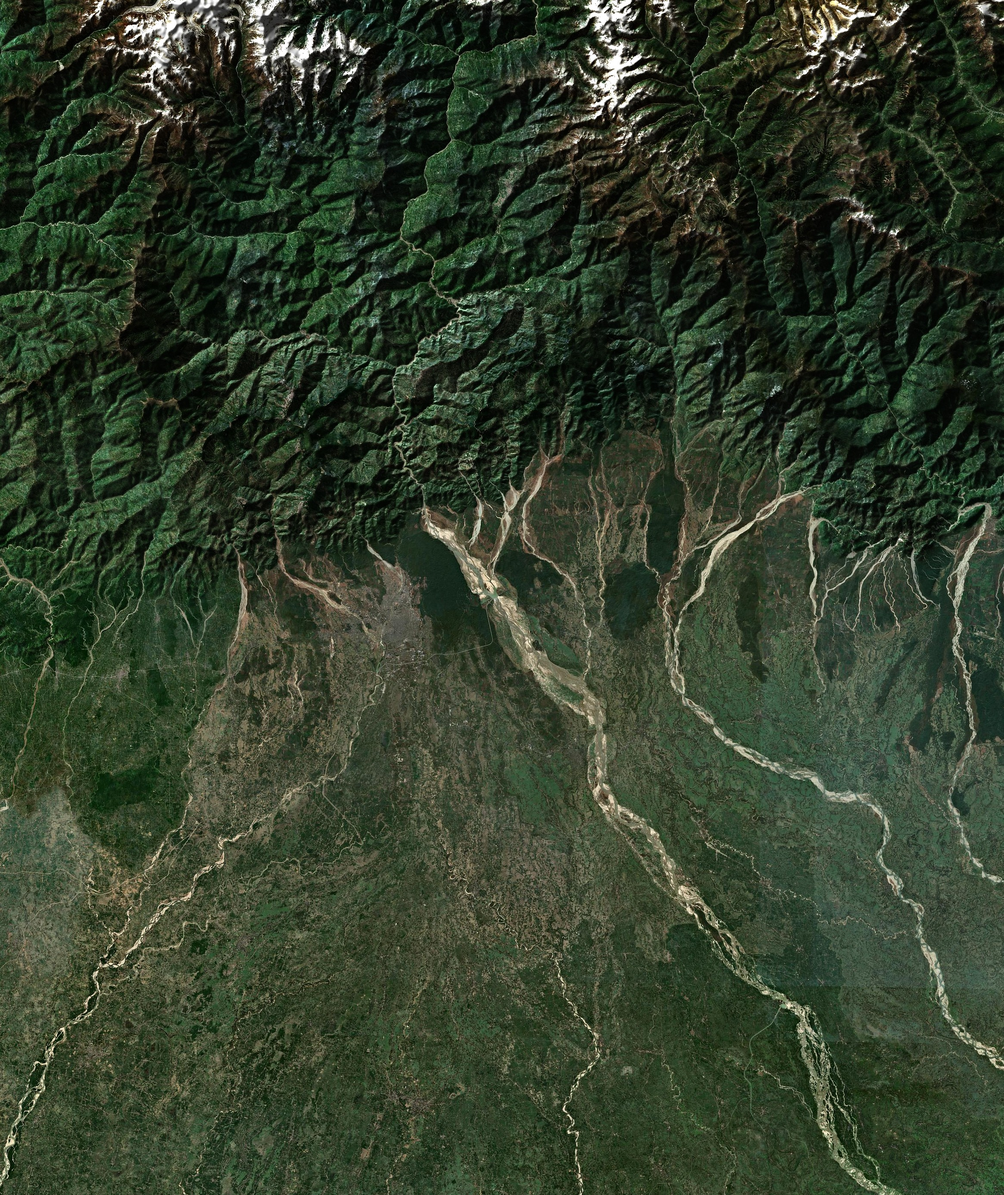
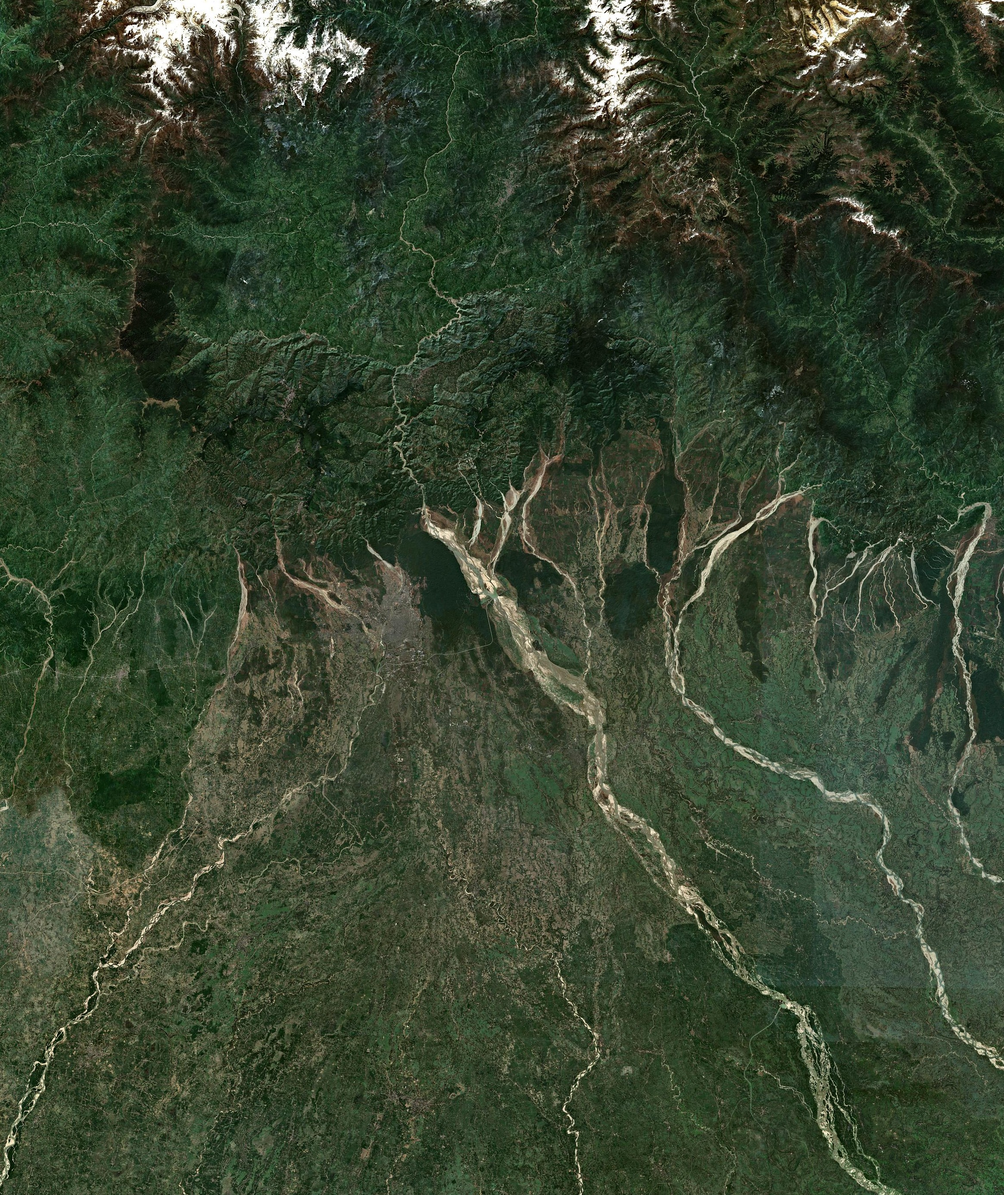
Siliguri: re-edit in the Judwa Desh style (flat map, Twins grade and shapes, boxed labels, no chicken), 2K 60 fps composition
Claude-Session: https://claude.ai/code/session_01DMZ7CFPTajKZajZsT4vn8D

Changed region(s): [[0.0, 0.0, 1.0, 0.4962]]

diff --git a/src/siliguri/Plane.tsx b/src/siliguri/Plane.tsx
@@ -3,10 +3,10 @@ import { clamp01, easeIn, easeOut, inOut, lerp, linear, ramp, window4 } from './
 import { C, Cam, DURATION_S, GEO, P, merc, project } from './cam';
 import { NUM } from './fonts';
 
-/** Country colours, saturated the way the reference paints them (India blue, China red, Bangladesh green …). */
+/** Region colours: the Judwa Desh palette (bold, flat, one warm and one cool next to each other). */
 export const COL = {
-  india: '#2F6BFF', ne: '#2EE07A', corridor: '#E443FF', nepal: '#FF9F1C', bangladesh: '#1FBF5B', bhutan: '#B9C23A',
-  china: '#FF3344', chumbi: '#FF2D3A', myanmar: '#A45BFF', mizoram: '#31D7FF', andaman: '#FFD84A',
+  india: '#4F8BFF', ne: '#3EE6A0', corridor: '#FF5468', nepal: '#FFC93C', bangladesh: '#3DDC4A', bhutan: '#B67CFF',
+  china: '#FF3B30', chumbi: '#FF3B30', myanmar: '#B67CFF', mizoram: '#38E1FF', andaman: '#FFC93C',
   gold: '#FFD84A', red: '#FF3B30', white: '#FFF6E6', teal: '#2EC4B6', river: '#38D6FF', road: '#FFB347', rail: '#7CC4FF', oil: '#FF5E7E',
 };
 const ll = (lon: number, lat: number) => merc(lon, lat);
@@ -41,19 +41,8 @@ export const regionsAt = (t: number): Region[] => {
   ];
 };
 
-/** How far the map leans back (degrees): the camera tilts while regions stand up as slabs, eased over a window. */
-export const TILT_MAX = 22;
-export const tiltAt = (t: number) => {
-  let sum = 0, n = 0;
-  for (let k = -6; k <= 6; k++) {
-    const regs = regionsAt(t + k * 0.06);
-    const wgt = 7 - Math.abs(k);
-    sum += wgt * Math.max(0, ...regs.map((r) => r.a));
-    n += wgt;
-  }
-  const v = sum / n;
-  return 8 + (TILT_MAX - 8) * v * v * (3 - 2 * v);
-};
+/** The Judwa Desh style is a flat, top-down map: no tilt. */
+export const tiltAt = (_t: number) => 0;
 
 // ---- lines (Mercator): the narrowest gap, the lifelines, routes
 export const NECK_A = ll(88.1466, 26.6612), NECK_B = ll(88.3528, 26.5787); // Nepal ↔ Bangladesh, 22.5 km (Natural Earth)
@@ -127,15 +116,19 @@ const Measure: React.FC<{ c: Cam; a: P; b: P; t: number; t0: number; t1: number;
   );
 };
 
-/** A big italic name laid flat on the map, so it leans back with the camera (the reference's 3D labels). */
-const MapName: React.FC<{ c: Cam; at: P; t: number; t0: number; t1: number; text: string; size?: number; rot?: number; color?: string }> = ({ c, at, t, t0, t1, text, size = 96, rot = -8, color = '#fff' }) => {
+/** A country name as a boxed label on the map (white border, a colour chip), the Judwa Desh way. */
+const MapName: React.FC<{ c: Cam; at: P; t: number; t0: number; t1: number; text: string; size?: number; rot?: number; color?: string }> = ({ c, at, t, t0, t1, text, size = 96, color = '#fff' }) => {
   const a = window4(t, t0, t0 + 0.12, t1 - 0.25, t1);
   if (a <= 0) return null;
   const [x, y] = project(c, at[0], at[1]);
-  const s = lerp(1.4, 1, ramp(t, t0, t0 + 0.35, easeOut));
+  const s = clamp01(lerp(0.3, 1, ramp(t, t0, t0 + 0.25, easeOut))) * (1 + 0.06 * Math.sin(Math.min(1, (t - t0) / 0.35) * Math.PI));
+  const fs = Math.max(34, Math.min(64, size * 0.5));
   return (
-    <div style={{ position: 'absolute', left: x, top: y, transform: `translate(-50%,-50%) rotate(${rot}deg) scale(${s}) skewX(-8deg)`, opacity: a, whiteSpace: 'nowrap',
-      fontFamily: NUM, fontSize: size, letterSpacing: 4, color, textShadow: '0 8px 0 rgba(0,0,0,0.35), 0 14px 30px rgba(0,0,0,0.7)', WebkitTextStroke: '3px rgba(0,0,0,0.35)' }}>{text}</div>
+    <div style={{ position: 'absolute', left: x, top: y, transform: `translate(-50%,-50%) scale(${s})`, opacity: a, whiteSpace: 'nowrap', background: 'rgba(8,16,26,0.72)', color: '#fff',
+      padding: '8px 22px 2px 18px', borderRadius: 10, border: '4px solid #fff', fontFamily: NUM, fontSize: fs, letterSpacing: 1.5, lineHeight: 1.15,
+      boxShadow: '0 8px 22px rgba(0,0,0,0.55)', display: 'flex', alignItems: 'center', gap: 12 }}>
+      <span style={{ width: fs * 0.42, height: fs * 0.42, borderRadius: 5, background: color === '#fff' ? '#FFD84A' : color, display: 'inline-block', marginTop: -5 }} />{text}
+    </div>
   );
 };
 
@@ -200,20 +193,20 @@ export const PlaneLayer: React.FC<{ t: number; c: Cam; between?: React.ReactNode
         <Route c={c} pts={ROUTES.oil} t={t} t0={C.tel9 - 0.2} t1={C.to10 - 0.2} dur={2.0} color={COL.oil} width={10} />
       </svg>
       {/* names on the map */}
-      <MapName c={c} at={ll(80.5, 22.5)} t={t} t0={0.2} t1={C.n22 + 0.2} text="INDIA" size={150} rot={-6} />
-      <MapName c={c} at={ll(88.25, 26.62)} t={t} t0={C.siliguri2} t1={C.northeast2 - 0.1} text="SILIGURI CORRIDOR" size={78} rot={-38} />
-      <MapName c={c} at={ll(93.6, 26.4)} t={t} t0={C.northeast2 + 0.2} t1={C.sadak3 - 0.1} text="NORTHEAST" size={110} rot={-8} />
-      <MapName c={c} at={ll(86.0, 27.8)} t={t} t0={C.nepal4} t1={C.isiliye5 + 0.4} text="NEPAL" size={120} rot={-14} />
-      <MapName c={c} at={ll(89.6, 24.6)} t={t} t0={C.bangla4} t1={C.isiliye5 + 0.4} text="BANGLADESH" size={110} rot={-10} />
-      <MapName c={c} at={ll(90.4, 27.5)} t={t} t0={C.bhutan4} t1={C.isiliye5 + 0.4} text="BHUTAN" size={100} rot={-10} />
-      <MapName c={c} at={ll(89.6, 29.4)} t={t} t0={C.china4} t1={C.isiliye5 + 0.4} text="CHINA" size={140} rot={-6} />
-      <MapName c={c} at={ll(88.95, 27.62)} t={t} t0={C.chumbi4} t1={C.isiliye5 + 0.4} text="CHUMBI VALLEY" size={46} rot={-40} color="#FFD3D6" />
-      <MapName c={c} at={ll(90.0, 21.0)} t={t} t0={C.y2018 - 0.2} t1={C.par6} text="BAY OF BENGAL" size={64} rot={-6} color="#BFE6FF" />
-      <MapName c={c} at={ll(96.0, 21.2)} t={t} t0={C.myanmar8} t1={C.aur9} text="MYANMAR" size={110} rot={-8} />
-      <MapName c={c} at={ll(105.0, 33.0)} t={t} t0={C.china9} t1={C.malacca9 + 0.3} text="CHINA" size={170} rot={-6} />
-      <MapName c={c} at={ll(99.6, 4.0)} t={t} t0={C.malacca9} t1={C.darwaze9 + 0.3} text="MALACCA STRAIT" size={70} rot={-38} color="#BFE6FF" />
-      <MapName c={c} at={ll(91.6, 10.5)} t={t} t0={C.andaman9} t1={C.to10} text="ANDAMAN & NICOBAR" size={58} rot={-76} color={COL.gold} />
-      <MapName c={c} at={ll(80.5, 22.5)} t={t} t0={C.to10 + 0.3} t1={DURATION_S + 1} text="INDIA" size={150} rot={-6} />
+      <MapName c={c} at={ll(80.5, 22.5)} t={t} t0={0.2} t1={C.n22 + 0.2} text="INDIA" size={150} color={COL.india} />
+      <MapName c={c} at={ll(88.25, 26.62)} t={t} t0={C.siliguri2} t1={C.northeast2 - 0.1} text="SILIGURI CORRIDOR" size={78} color={COL.corridor} />
+      <MapName c={c} at={ll(93.6, 26.4)} t={t} t0={C.northeast2 + 0.2} t1={C.sadak3 - 0.1} text="NORTHEAST" size={110} color={COL.ne} />
+      <MapName c={c} at={ll(86.0, 27.8)} t={t} t0={C.nepal4} t1={C.isiliye5 + 0.4} text="NEPAL" size={120} color={COL.nepal} />
+      <MapName c={c} at={ll(89.6, 24.6)} t={t} t0={C.bangla4} t1={C.isiliye5 + 0.4} text="BANGLADESH" size={110} color={COL.bangladesh} />
+      <MapName c={c} at={ll(90.4, 27.5)} t={t} t0={C.bhutan4} t1={C.isiliye5 + 0.4} text="BHUTAN" size={100} color={COL.bhutan} />
+      <MapName c={c} at={ll(89.6, 29.4)} t={t} t0={C.china4} t1={C.isiliye5 + 0.4} text="CHINA" size={140} color={COL.china} />
+      <MapName c={c} at={ll(88.95, 27.62)} t={t} t0={C.chumbi4} t1={C.isiliye5 + 0.4} text="CHUMBI VALLEY" size={80} color={COL.chumbi} />
+      <MapName c={c} at={ll(90.0, 21.0)} t={t} t0={C.y2018 - 0.2} t1={C.par6} text="BAY OF BENGAL" size={80} color={COL.river} />
+      <MapName c={c} at={ll(96.0, 21.2)} t={t} t0={C.myanmar8} t1={C.aur9} text="MYANMAR" size={110} color={COL.myanmar} />
+      <MapName c={c} at={ll(105.0, 33.0)} t={t} t0={C.china9} t1={C.malacca9 + 0.3} text="CHINA" size={170} color={COL.china} />
+      <MapName c={c} at={ll(99.6, 4.0)} t={t} t0={C.malacca9} t1={C.darwaze9 + 0.3} text="MALACCA STRAIT" size={90} color={COL.river} />
+      <MapName c={c} at={ll(91.6, 10.5)} t={t} t0={C.andaman9} t1={C.to10} text="ANDAMAN & NICOBAR" size={80} color={COL.andaman} />
+      <MapName c={c} at={ll(80.5, 22.5)} t={t} t0={C.to10 + 0.3} t1={DURATION_S + 1} text="INDIA" size={150} color={COL.india} />
     </>
   );
 };

diff --git a/src/siliguri/Screen.tsx b/src/siliguri/Screen.tsx
@@ -128,9 +128,6 @@ const Props: React.FC<{ t: number; c: Cam }> = ({ t, c }) => {
   const dish = Math.cos(t * 2.4);
   return (
     <>
-      {/* the chicken's neck */}
-      <Rig set="s1" parts={[{ name: 'chicken', box: [0, 0, 1], rot: Math.sin(t * 7) * 3 * window4(t, C.chicken2, C.chicken2 + 0.2, C.chicken2 + 1, C.chicken2 + 1.4) }]}
-        x={ux + 250} y={uy - 120} h={300} t={t} t0={C.chicken2 - 0.05} t1={C.northeast2 - 0.2} entry="pop" />
       {/* road, rail: the truck and the train run through the strip */}
       <Mover t={t} c={c} set="s2" part="truck" route={ROUTES.road} t0={C.sadak3} t1={C.nepal4 - 0.2} f0={0.12} f1={0.75} h={120} wheels />
       <Mover t={t} c={c} set="s3" part="train" route={ROUTES.rail} t0={C.rail3} t1={C.nepal4 - 0.2} f0={0.08} f1={0.68} h={90} dy={10} />
@@ -260,31 +257,18 @@ export const Whips: React.FC<{ t: number }> = ({ t }) => (
   </>
 );
 
-/** Section grades: a cool, dark geopolitical base (deep blue shadows); a red danger pulse when the strip is cut and
- *  when China closes in; a warm gold when India answers. Vignette and film grain on top. */
-export const gradeAt = (t: number) => ({
-  danger: window4(t, C.kati1 - 0.05, C.kati1 + 0.2, C.kahan1, C.kahan1 + 0.4) + window4(t, C.chumbi4, C.chumbi4 + 0.3, C.isiliye5, C.isiliye5 + 0.4) * 0.6 +
-    window4(t, C.china6, C.china6 + 0.3, C.port6, C.port6 + 0.5) * 0.5 + window4(t, C.karib7, C.karib7 + 0.3, C.par8, C.par8 + 0.3) * 0.5,
-  gold: window4(t, C.taiyar8 - 0.2, C.taiyar8 + 0.3, C.kaladan8, C.kaladan8 + 0.5) + window4(t, C.andaman9, C.andaman9 + 0.4, C.to10, C.to10 + 0.4),
-});
+/** The Judwa Desh grade: teal shadows and warm highlights (soft light), a vignette, darker top and bottom edges, a light
+ *  film grain, and a short flash on the big hits. */
 export const Grade: React.FC<{ t: number; frame: number }> = ({ t, frame }) => {
-  const g = gradeAt(t);
   let flash = 0;
   for (const h of [C.kati1, C.siliguri2, C.chumbi4, C.china6, C.n3_8, C.n28]) flash = Math.max(flash, window4(t, h - 0.02, h, h + 0.04, h + 0.3));
   return (
     <AbsoluteFill style={{ pointerEvents: 'none' }}>
-      <AbsoluteFill style={{ background: 'linear-gradient(180deg, rgba(10,40,110,0.32), rgba(0,20,60,0.12) 45%, rgba(10,30,80,0.22))', mixBlendMode: 'soft-light' }} />
-      {g.danger > 0 && (
-        <>
-          <AbsoluteFill style={{ background: '#ff1a2a', opacity: clamp01(g.danger) * (0.18 + 0.08 * Math.sin(t * 9)), mixBlendMode: 'soft-light' }} />
-          <AbsoluteFill style={{ background: 'radial-gradient(ellipse at 50% 50%, rgba(255,0,0,0) 45%, rgba(200,0,20,0.55) 100%)', opacity: clamp01(g.danger) }} />
-        </>
-      )}
-      {g.gold > 0 && <AbsoluteFill style={{ background: 'linear-gradient(180deg, rgba(255,170,60,0.35), rgba(255,120,40,0.18))', opacity: clamp01(g.gold), mixBlendMode: 'soft-light' }} />}
-      <AbsoluteFill style={{ background: 'radial-gradient(ellipse at 50% 46%, rgba(0,0,0,0) 50%, rgba(0,0,0,0.6) 100%)' }} />
-      <AbsoluteFill style={{ background: 'linear-gradient(180deg, rgba(0,6,16,0.5), rgba(0,0,0,0) 24%, rgba(0,0,0,0) 70%, rgba(0,6,12,0.55))' }} />
-      <AbsoluteFill style={{ opacity: 0.07, mixBlendMode: 'overlay', backgroundImage: GRAIN, backgroundSize: '256px 256px', backgroundPosition: `${(frame * 73) % 256}px ${(frame * 151) % 256}px` }} />
-      {flash > 0 && <AbsoluteFill style={{ background: '#eaf2ff', opacity: flash * 0.3, mixBlendMode: 'screen' }} />}
+      <AbsoluteFill style={{ background: 'linear-gradient(180deg, rgba(0,70,90,0.24), rgba(0,40,60,0.08) 40%, rgba(255,150,60,0.08) 70%, rgba(255,140,40,0.14))', mixBlendMode: 'soft-light' }} />
+      <AbsoluteFill style={{ background: 'radial-gradient(ellipse at 50% 46%, rgba(0,0,0,0) 52%, rgba(0,0,0,0.55) 100%)' }} />
+      <AbsoluteFill style={{ background: 'linear-gradient(180deg, rgba(0,8,16,0.45), rgba(0,0,0,0) 24%, rgba(0,0,0,0) 70%, rgba(0,6,12,0.55))' }} />
+      <AbsoluteFill style={{ opacity: 0.05, mixBlendMode: 'overlay', backgroundImage: GRAIN, backgroundSize: '256px 256px', backgroundPosition: `${(frame * 73) % 256}px ${(frame * 151) % 256}px` }} />
+      {flash > 0 && <AbsoluteFill style={{ background: '#fff4dc', opacity: flash * 0.35, mixBlendMode: 'screen' }} />}
     </AbsoluteFill>
   );
 };

diff --git a/src/siliguri/Shapes.tsx b/src/siliguri/Shapes.tsx
@@ -1,0 +1,70 @@
+import React from 'react';
+import { clamp01, easeOut, lerp, pop, ramp } from './anim';
+import { Cam, P, project, pxPerM } from './cam';
+import type { Region } from './Plane';
+
+/** Regions drawn the Judwa Desh way: a bold flat fill with a white sheen at the top, a soft outer glow, a white edge
+ *  that draws on, and a light that runs round the border. The fill grows out from the region's centre as it is named,
+ *  and the shape lifts a little (scale + drop shadow) when it lands. */
+
+const ringsD = (c: Cam, rings: P[][], dx = 0, dy = 0) =>
+  rings.map((r) => r.map((pt, i) => {
+    const [x, y] = project(c, pt[0] + dx, pt[1] + dy);
+    return (i ? 'L' : 'M') + x.toFixed(1) + ',' + y.toFixed(1);
+  }).join('') + 'Z').join('');
+
+const bbox = (rings: P[][]) => {
+  let x0 = 1e18, x1 = -1e18, y0 = 1e18, y1 = -1e18;
+  for (const r of rings) for (const [x, y] of r) { x0 = Math.min(x0, x); x1 = Math.max(x1, x); y0 = Math.min(y0, y); y1 = Math.max(y1, y); }
+  return { cx: (x0 + x1) / 2, cy: (y0 + y1) / 2, d: Math.hypot(x1 - x0, y1 - y0) };
+};
+const BOX = new Map<string, ReturnType<typeof bbox>>();
+
+const Shape: React.FC<{ c: Cam; r: Region; t: number; t0: number }> = ({ c, r, t, t0 }) => {
+  if (r.a <= 0.002) return null;
+  if (!BOX.has(r.key)) BOX.set(r.key, bbox(r.rings));
+  const b = BOX.get(r.key)!;
+  const dx = r.dx ?? 0, dy = r.dy ?? 0;
+  const d = ringsD(c, r.rings, dx, dy);
+  const s = pxPerM(c);
+  const [ax, ay] = project(c, b.cx + dx, b.cy + dy);
+  const grow = ramp(r.a, 0, 0.85, easeOut);
+  const lift = clamp01(pop(t, t0, 8, 220)) * (1 - ramp(t, t0 + 0.6, t0 + 1.2));
+  const sc = 1 + 0.05 * lift;
+  const tf = `translate(${ax},${ay}) scale(${sc}) translate(${-ax},${-ay})`;
+  const draw = Math.min(1, r.a * 1.15);
+  const id = `sg_${r.key}`;
+  const op = Math.min(1, r.a * 1.6);
+  return (
+    <g style={{ opacity: op }}>
+      <defs>
+        <clipPath id={`${id}c`}><circle cx={ax} cy={ay} r={Math.max(0.1, b.d * s * 0.62 * grow)} /></clipPath>
+        <linearGradient id={id} x1="0" y1="0" x2="0.4" y2="1">
+          <stop offset="0" stopColor="#fff" stopOpacity={0.5} />
+          <stop offset="0.22" stopColor={r.color} />
+          <stop offset="1" stopColor={r.color} stopOpacity={0.85} />
+        </linearGradient>
+      </defs>
+      {lift > 0.01 && (
+        <g transform={`translate(${14 * lift},${26 * lift})`}>
+          <path d={d} transform={tf} fill="#000" fillOpacity={0.4 * lift} style={{ filter: 'blur(10px)' }} />
+        </g>
+      )}
+      <g transform={tf}>
+        <path d={d} fill="none" stroke={r.color} strokeWidth={32} strokeOpacity={0.3} strokeLinejoin="round" style={{ filter: 'blur(14px)' }} />
+        <path d={d} fill={`url(#${id})`} fillOpacity={lerp(0.55, 0.9, r.sat ?? 0.6) * draw} clipPath={`url(#${id}c)`} />
+        <path d={d} fill="none" stroke="#fff" strokeWidth={4} strokeLinejoin="round" pathLength={1} strokeDasharray={`${draw} 1`} strokeOpacity={0.95}
+          style={{ filter: `drop-shadow(0 0 8px ${r.color})` }} />
+        <path d={d} fill="none" stroke="#fff" strokeWidth={7} strokeLinejoin="round" pathLength={1} strokeDasharray="0.05 0.95" strokeDashoffset={-((t * 0.25 + r.phase) % 1)}
+          style={{ filter: `drop-shadow(0 0 10px ${r.color}) drop-shadow(0 0 4px #fff)` }} />
+      </g>
+    </g>
+  );
+};
+
+/** All regions, big to small. `starts` gives each region's landing time (for the lift). */
+export const Shapes: React.FC<{ c: Cam; t: number; regions: Region[]; starts: Record<string, number> }> = ({ c, t, regions, starts }) => (
+  <svg width={2600} height={3200} style={{ position: 'absolute', left: 0, top: 0, overflow: 'visible' }}>
+    {regions.map((r) => <Shape key={r.key} c={c} r={r} t={t} t0={starts[r.key] ?? -10} />)}
+  </svg>
+);

diff --git a/src/siliguri/Siliguri.tsx b/src/siliguri/Siliguri.tsx
@@ -7,7 +7,7 @@ import { DURATION_S, NULL_WIN, PERSP, PLANE, camAt, camMotion, shake } from './c
 import { useSGFonts } from './fonts';
 import { MapCanvas, SEA_BG } from './Map';
 import { PlaneLayer, regionsAt, tiltAt } from './Plane';
-import { Cutouts } from './Cutout';
+import { Shapes } from './Shapes';
 import { Grade, ScreenLayer, Subtitles, Whips } from './Screen';
 
 export const SILIGURI_DURATION = Math.ceil(DURATION_S * FPS);
@@ -42,13 +42,24 @@ const NullPanel: React.FC<{ t: number; q: number; name: string; t0: number; t1: 
   );
 };
 
+/** When each region last landed (rose past half), looked up over the previous second: drives the little lift on entry. */
+const landings = (t: number) => {
+  const now = regionsAt(t);
+  const out: Record<string, number> = {};
+  for (let k = 1; k <= 20; k++) {
+    const back = regionsAt(t - k * 0.05);
+    for (const r of now) if (out[r.key] === undefined && r.a > 0.5 && (back.find((q) => q.key === r.key)?.a ?? 0) <= 0.5) out[r.key] = t - (k - 0.5) * 0.05;
+  }
+  return out;
+};
+
 export const Siliguri: React.FC<{ captions?: boolean; screen?: boolean; res?: number; zoomOut?: number; propsOnly?: boolean }> = ({ captions = true, screen = true, res = 1, zoomOut = 1, propsOnly = false }) => {
   const { fps } = useVideoConfig();
   const t = useCurrentFrame() / fps;
   useSGFonts();
   useMontserrat();
   const c0 = camAt(t);
-  const cam = { ...c0, span: c0.span * zoomOut, tilt: tiltAt(t), cut: true };
+  const cam = { ...c0, span: c0.span * zoomOut, tilt: tiltAt(t) };
   const mv = camMotion(t);
   const blurK = (30 / fps) ** 0.5;
   const bx = Math.min(10, Math.abs(mv.vx) * 0.22 + mv.zoom * 1.2) * blurK;
@@ -71,7 +82,7 @@ export const Siliguri: React.FC<{ captions?: boolean; screen?: boolean; res?: nu
           <div style={{ position: 'absolute', left: 540 - PLANE.ox, top: 960 - PLANE.oy, width: PLANE.w, height: PLANE.h,
             transformOrigin: `${PLANE.ox}px ${PLANE.oy}px`, transform: `rotate(${cam.rot}deg)` }}>
             <div style={{ position: 'absolute', inset: 0, filter: 'saturate(1.2) contrast(1.16) brightness(1.02)' }}><MapCanvas cam={cam} res={res} /></div>
-            <PlaneLayer t={t} c={cam} between={<Cutouts cam={cam} t={t} regions={regionsAt(t)} res={res} />} />
+            <PlaneLayer t={t} c={cam} between={<Shapes c={cam} t={t} regions={regionsAt(t)} starts={landings(t)} />} />
           </div>
           </div>
         </AbsoluteFill>

diff --git a/src/Root.tsx b/src/Root.tsx
@@ -68,7 +68,7 @@ export const RemotionRoot: React.FC = () => {
       <Composition id="KolkataCover" component={KolkataCover} durationInFrames={KOLKATA_DURATION} fps={30} width={1080} height={1920} defaultProps={{ text: true, res: 2 }} />
       <Composition id="Siliguri" component={Siliguri} durationInFrames={SILIGURI_DURATION} fps={30} width={1080} height={1920} defaultProps={{ captions: true }} />
       <Composition id="SiliguriCover" component={SiliguriCover} durationInFrames={SILIGURI_DURATION} fps={30} width={1080} height={1920} defaultProps={{ text: true }} />
-      <Composition id="Siliguri60" component={Siliguri} durationInFrames={SILIGURI_DURATION_60} fps={60} width={1080} height={1920} defaultProps={{ captions: true }} />
+      <Composition id="Siliguri2K60" component={Siliguri} durationInFrames={SILIGURI_DURATION_60} fps={60} width={1080} height={1920} defaultProps={{ captions: true, res: 4 / 3 }} />
       <Composition id="Kolkata60" component={Kolkata} durationInFrames={KOLKATA_DURATION_60} fps={60} width={1080} height={1920} defaultProps={{ captions: true, cut3d: true, veo: true }} />
       <Composition id="Kolkata4K60" component={Kolkata} durationInFrames={KOLKATA_DURATION_60} fps={60} width={1080} height={1920} defaultProps={{ captions: true, res: 2 }} />
       <Composition id="Tibet2" component={Tibet2} durationInFrames={TIBET2_DURATION} fps={30} width={1080} height={1920} defaultProps={{ captions: true }} />

diff --git a/tools/build_siliguri_maps.py b/tools/build_siliguri_maps.py
@@ -29,10 +29,11 @@ ROOT = Path(__file__).resolve().parent.parent
 OUT = ROOT / "public" / "siliguri" / "maps"
 TERRARIUM = "https://s3.amazonaws.com/elevation-tiles-prod/terrarium/{z}/{x}/{y}.png"
 PLATES = [  # name, zoom, lon0, lon1, lat0, lat1, relief strength
-    ("asia", 6, 60.0, 125.0, -10.0, 45.0, 0.55),
-    ("east", 8, 84.0, 98.0, 18.5, 30.0, 0.75),
-    ("corridor", 11, 87.8, 89.4, 25.9, 27.6, 0.8),
-    ("malacca", 8, 91.0, 105.0, -1.0, 14.0, 0.55),
+    # relief 0: the plain satellite map, like the Judwa Desh video (the creator preferred it to the 3D-relief look)
+    ("asia", 6, 60.0, 125.0, -10.0, 45.0, 0.0),
+    ("east", 8, 84.0, 98.0, 18.5, 30.0, 0.0),
+    ("corridor", 11, 87.8, 89.4, 25.9, 27.6, 0.0),
+    ("malacca", 8, 91.0, 105.0, -1.0, 14.0, 0.0),
 ]
 PLACES = {
     "siliguri": (88.43, 26.72), "kolkata": (88.36, 22.57), "guwahati": (91.75, 26.14), "agartala": (91.28, 23.83),
@@ -74,8 +75,8 @@ def main() -> None:
             if im.size[side] > 4096:
                 f = 4096 / im.size[side]
                 im = im.resize((round(im.width * f), round(im.height * f)), Image.LANCZOS)
-        sh = relief(z - 1, lo0, lo1, la0, la1, im.size, cache)
         a = np.asarray(im).astype(np.float32)
+        sh = relief(z - 1, lo0, lo1, la0, la1, im.size, cache) if k > 0 else np.full(a.shape[:2], 0.67, np.float32)
         # multiply-style relief: shadows deepen, lit faces stay; flat ground (shade ≈ 0.67) barely changes
         m = (1 - k) + k * (sh / 0.67)
         out = np.clip(a * m[..., None], 0, 255).astype(np.uint8)
